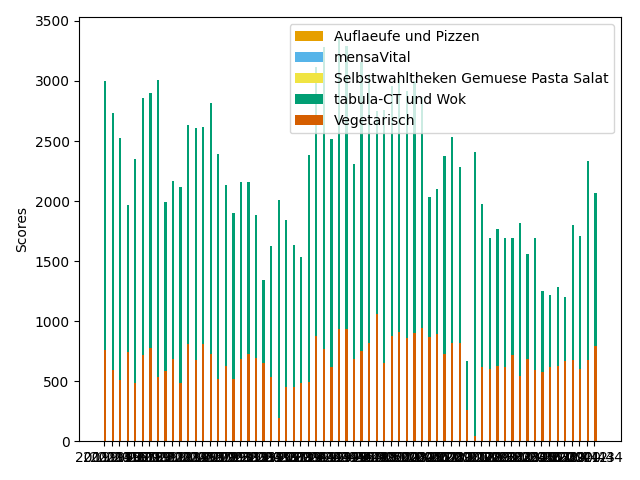
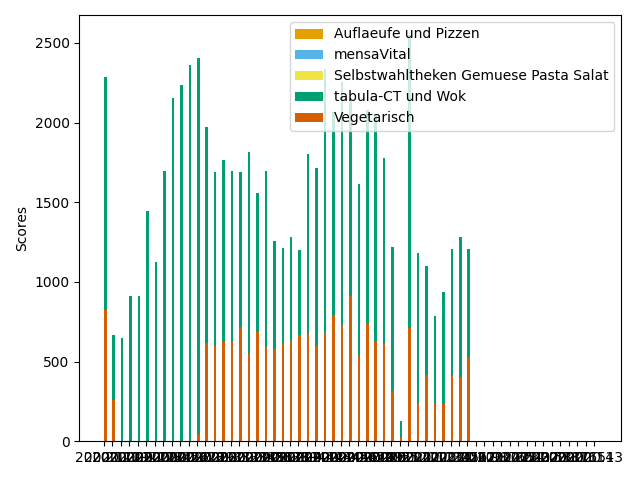
data: update the processing of the dataframes

diff --git a/mensa.py b/mensa.py
@@ -17,7 +17,7 @@ def main():
     # Covid dataframe
     covid_csv = "./data/covid19/Mittelsachsen.csv"
     covid_data = pd.read_csv(covid_csv, sep=",", header=0)
-    covid_data["Woche"] = data["Woche"].astype(str)
+    covid_data["Woche"] = covid_data["Woche"].astype(str)
     
     # weather dataframe
     weather_csv = "./data/Wetter/wetter_mod6.csv"
@@ -26,7 +26,6 @@ def main():
 
     # Join the mensa info with the covid information
     merged_df = pd.merge(all_mensa, covid_data, on="Woche")
-    
     # merged_df = pd.merge(merged_df, weather_data, on="Woche")
     # grouped_df = merged_df.groupby(by=["Woche"])
 
@@ -35,8 +34,35 @@ def main():
         x = merged_df[(merged_df["Name"] == name)]
         x_total = x.groupby(by=["Woche", "Name"])["Anzahl"].sum()
         x_total = x_total.reset_index()
-        print(x_total)
         total_values.append(x_total)
+
+    # Fill the holes with 0
+    for week in covid_data["Woche"]:
+        for index, mensa in enumerate(total_values):
+            is_empty = mensa[mensa["Woche"] == week].empty
+            if is_empty == True:
+                new_row = {
+                    "Woche": week,
+                    "Name": mensa_names[index],
+                    "Anzahl": 0
+                }
+                total_values[index] = mensa.append(new_row, ignore_index=True)
+    
+    # Create new columns (week/year)
+    for index, mensa in enumerate(total_values):
+        mensa.insert(0, "week", 0)
+        mensa.insert(1, "year", 0)
+
+    for index, mensa in enumerate(total_values):
+        for row in mensa.iterrows():
+            unformatted_date = row[1]["Woche"]
+            year = int(unformatted_date.split(".")[0])
+            week = int(unformatted_date.split(".")[1])
+            total_values[index].at[row[0], "year"] = year
+            total_values[index].at[row[0], "week"] = week
+    
+    for mensa in total_values:
+        print(mensa[mensa["year"] == 2020])
 
     colors = ['#E69F00', '#56B4E9', '#F0E442', '#009E73', '#D55E00']
 
